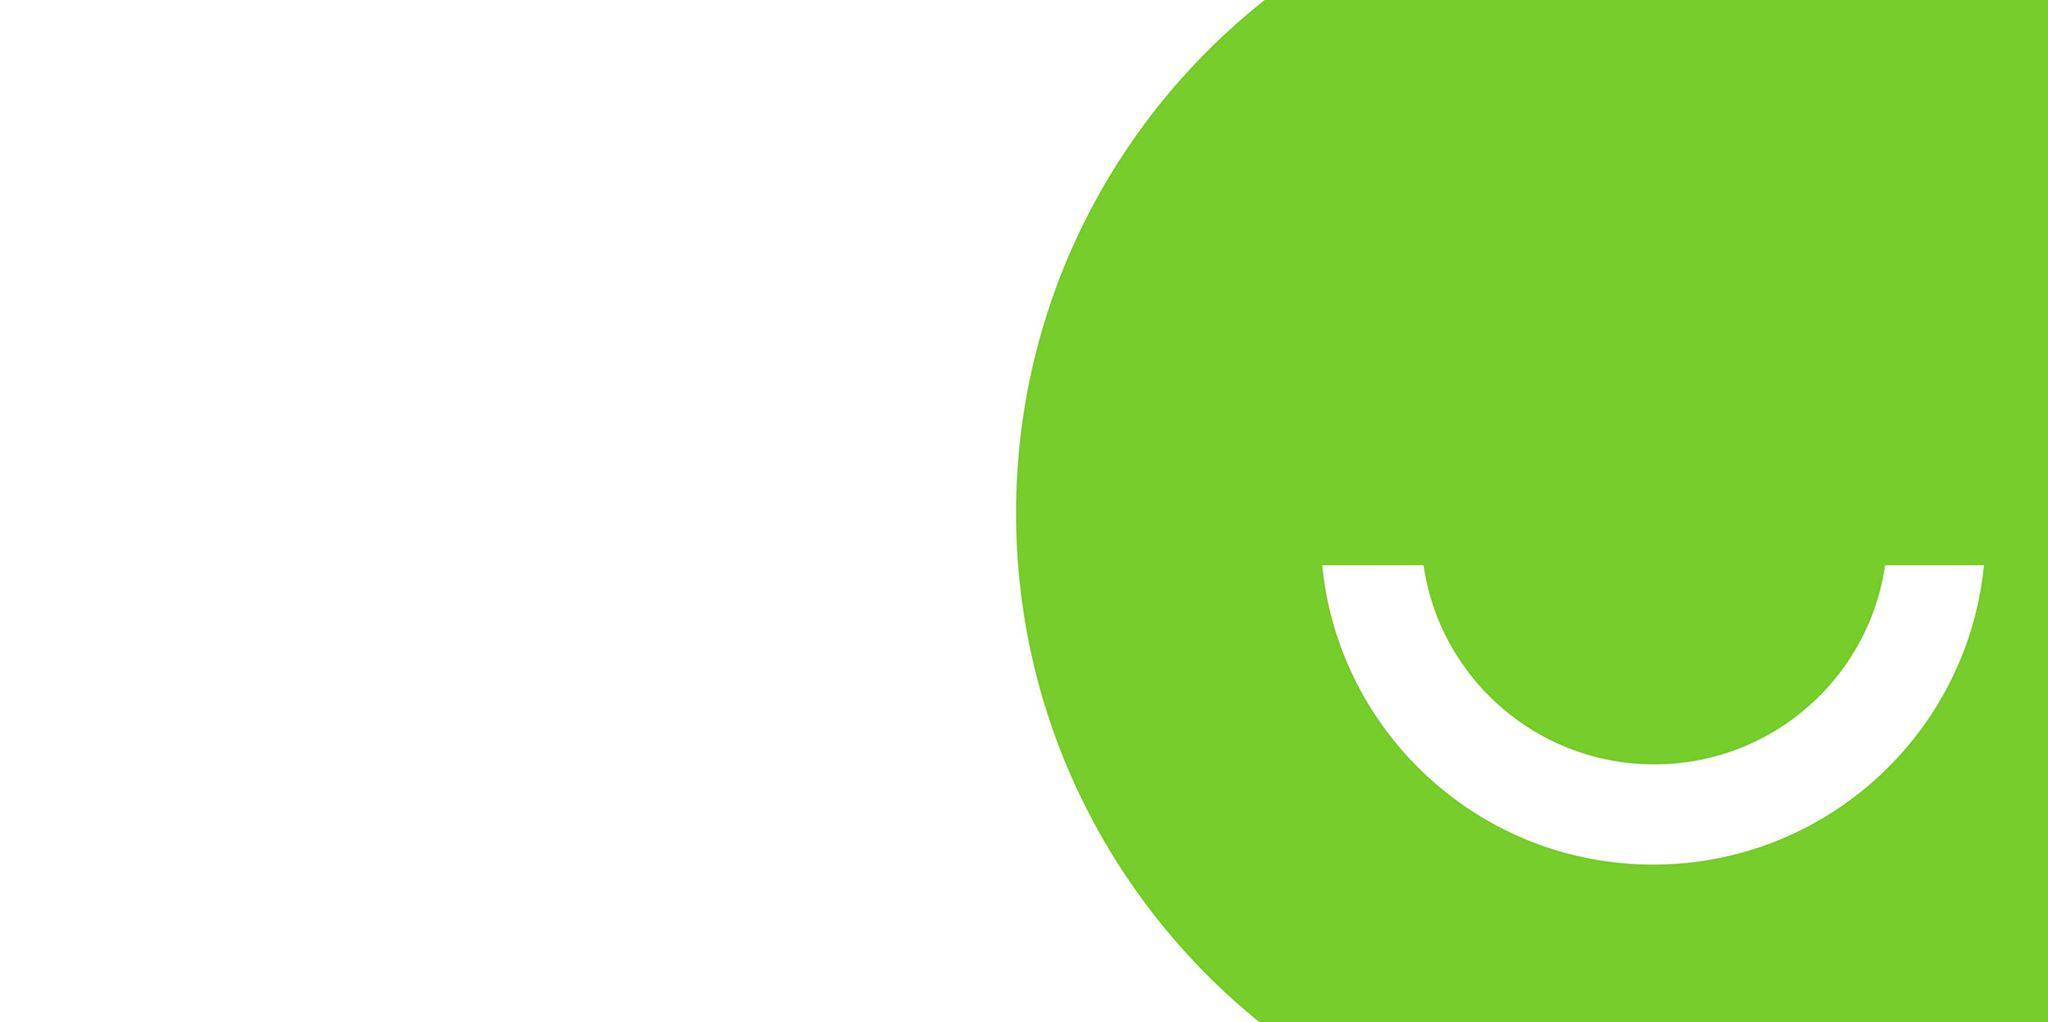
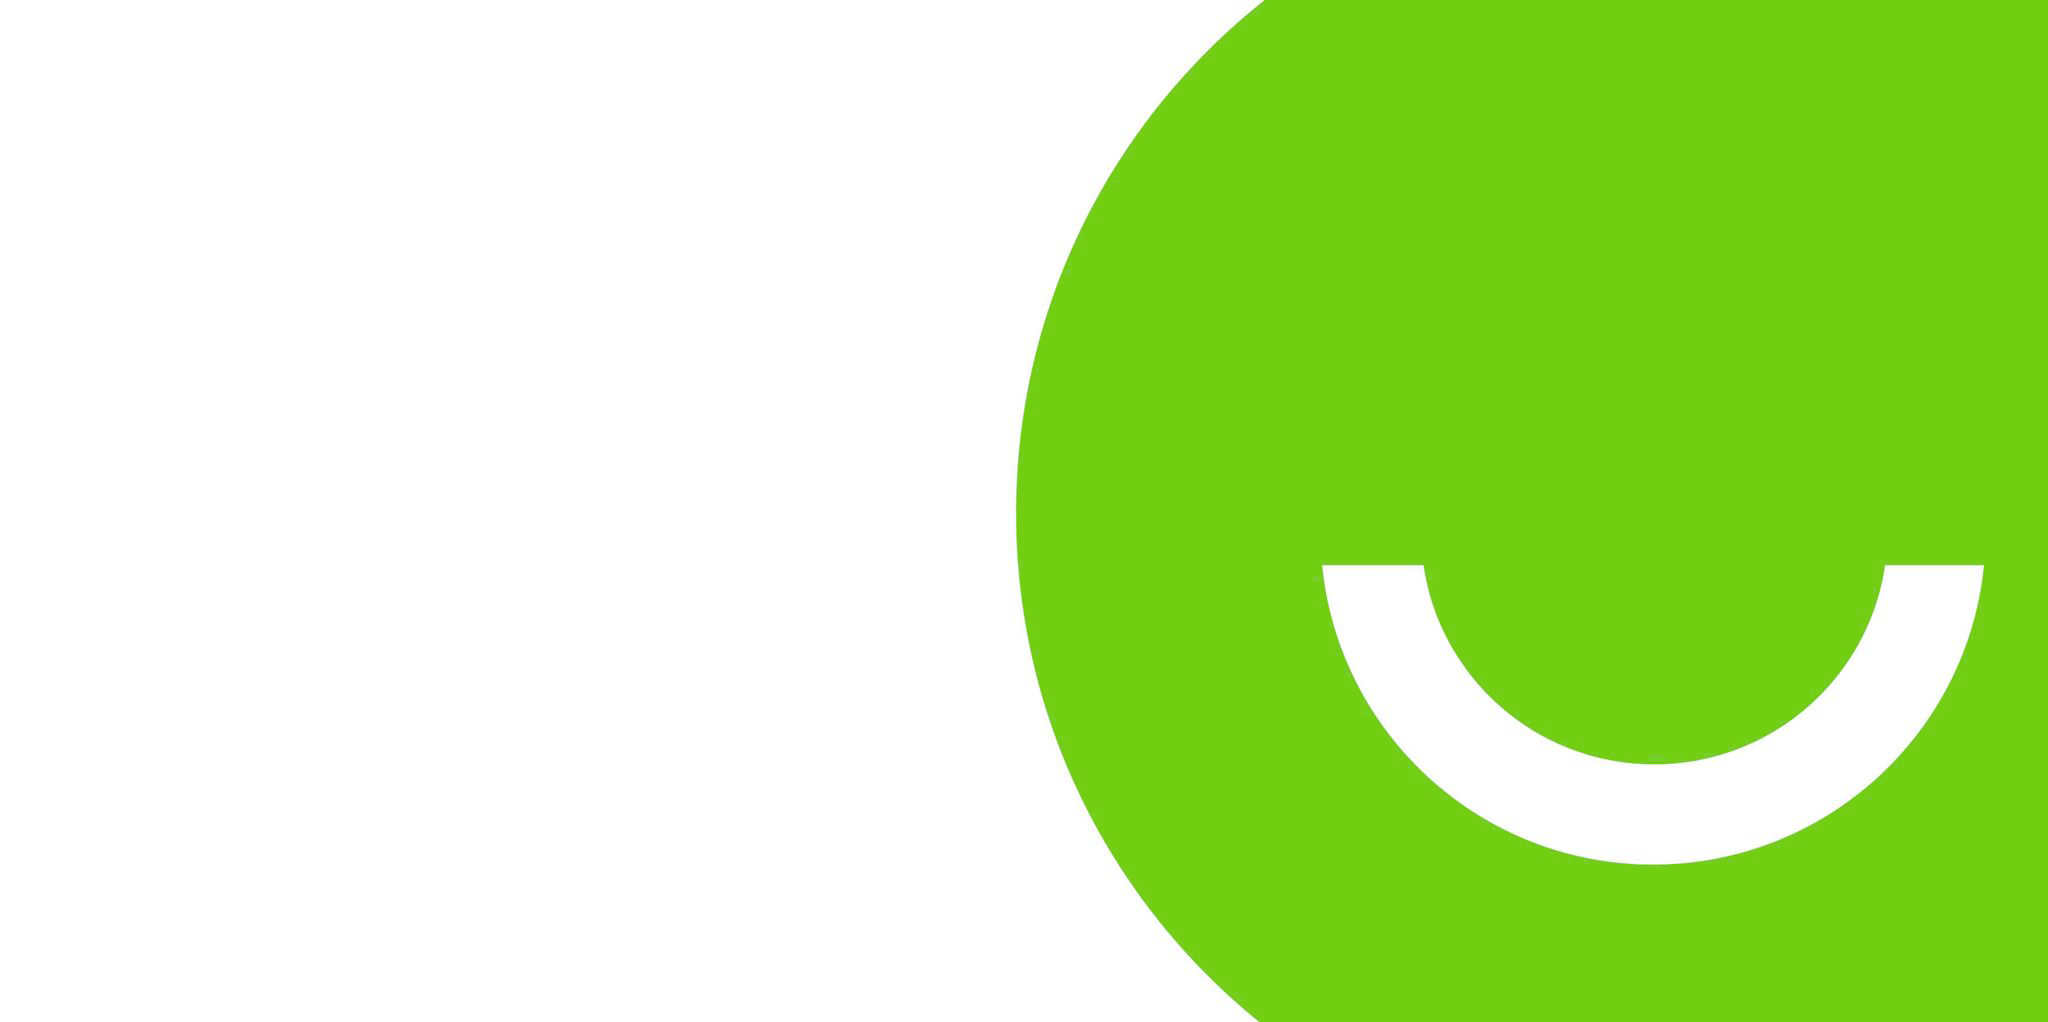
.

diff --git a/mainApp/templates/mainApp/about.html b/mainApp/templates/mainApp/about.html
@@ -3,7 +3,7 @@
 {% block title %}About Free Market{% endblock %}
 
 {% block body %}
-    <div id="bg" style="background-image: url('https://www.free-market.nl/static/bg_kate_cheng.png')">
+    <div id="bg">
 
         <div style="height: 20px"></div>
 
@@ -11,7 +11,7 @@
             <div class="row">
                 <div class="col-lg-4"></div>
                 <div class="col-lg-4" style="padding-left: 5px;padding-right: 5px">
-                    <h1 align="center" style="font-weight: bold; color: #336600">About FREE MARKET</h1><br><br>
+                    <h1 align="center" style="font-weight: bold; color: #336600">ABOUT FREE MARKET</h1><br><br>
                     <strong style="font-size: medium; color: #336600">&#8226 Free Market is a global online community where people give out goods or offer services to the others in the same city for free.</strong><br><br>
                     <strong style="font-size: medium; color: #336600">&#8226 If you have stuff that you will never use and you want to give them out for free then Free Market is gonna be the perfect place for you.</strong><br><br>
                     <strong style="font-size: medium; color: #336600">&#8226 If you are looking for a second-hand market where everything is for free then Free Market is the perfect place for you too.</strong>

diff --git a/mainApp/static/mainApp/style.css b/mainApp/static/mainApp/style.css
@@ -196,6 +196,13 @@
     .navbar-fixed-top .navbar-collapse {
         max-height: 460px;
     }
+
+    /*background image style*/
+    #bg {
+        background-image: url("https://www.free-market.nl/static/bg_kate_cheng_2.png");
+        background-size: 100% 100%;
+        background-repeat: no-repeat;
+    }
 }
 
 /*paragraph display style*/
@@ -216,8 +223,12 @@ pre {
     float:right;
 }
 
-/*background image style*/
-#bg {
-    background-size: 100% 100%;
-    background-repeat: no-repeat;
+/*when with pc screen*/
+@media (min-width: 1491px) {
+    /*background image style*/
+    #bg {
+        background-image: url("https://www.free-market.nl/static/bg_kate_cheng.png");
+        background-size: 100% 100%;
+        background-repeat: no-repeat;
+    }
 }

diff --git a/mainApp/templates/mainApp/terms.html b/mainApp/templates/mainApp/terms.html
@@ -3,7 +3,7 @@
 {% block title %}Terms and Conditions{% endblock %}
 
 {% block body %}
-    <div id="bg" style="background-image: url('https://www.free-market.nl/static/bg_kate_cheng.png')">
+    <div id="bg">
 
         <div style="height: 20px"></div>
 
